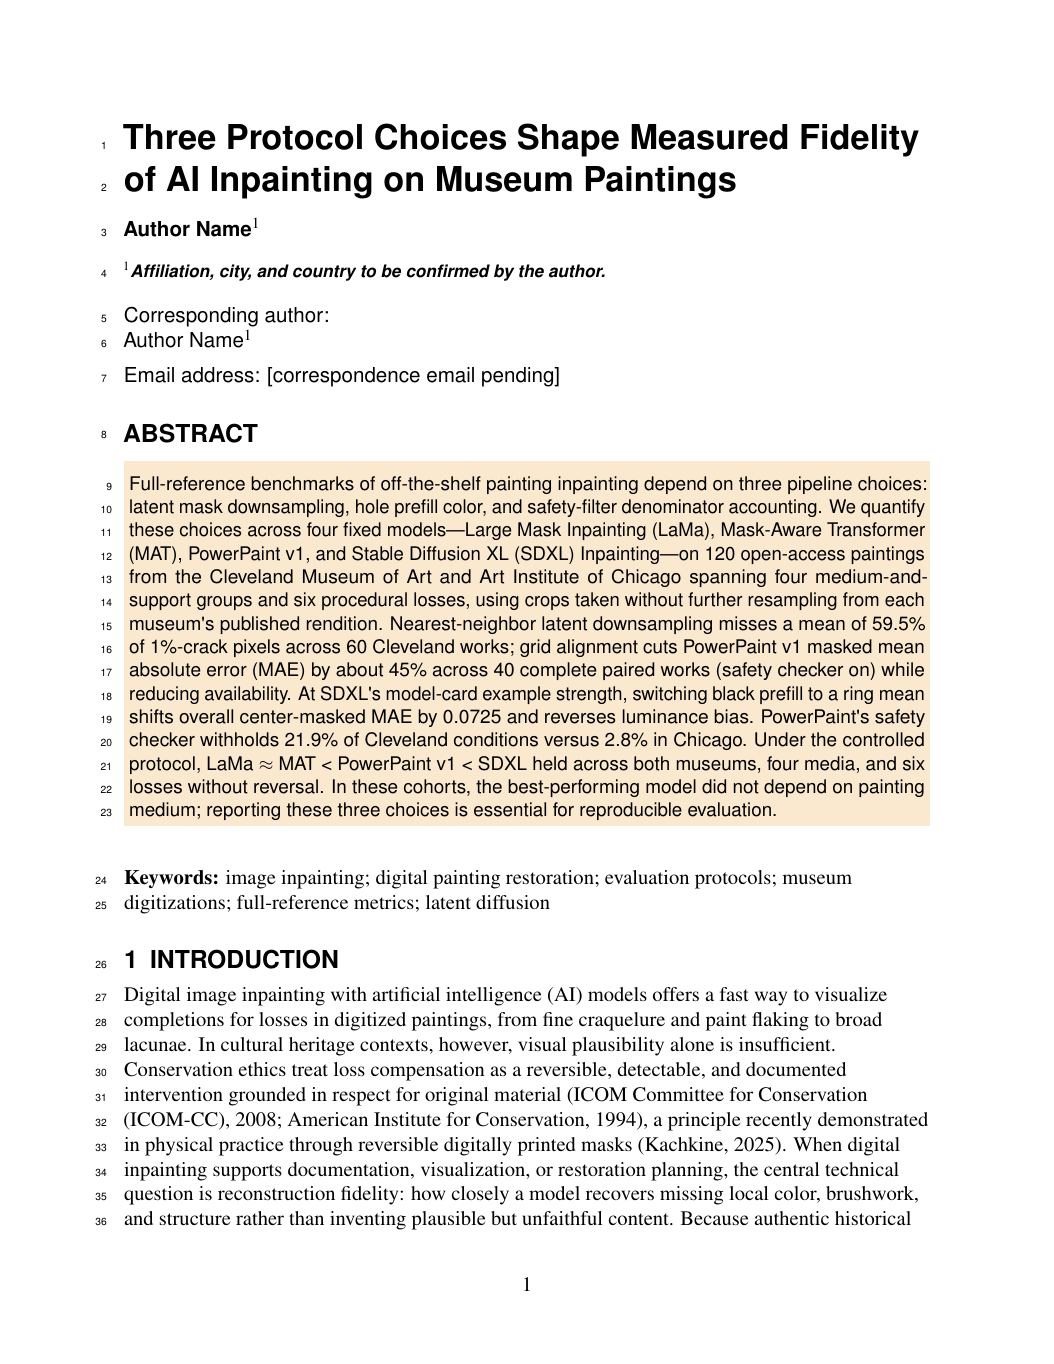
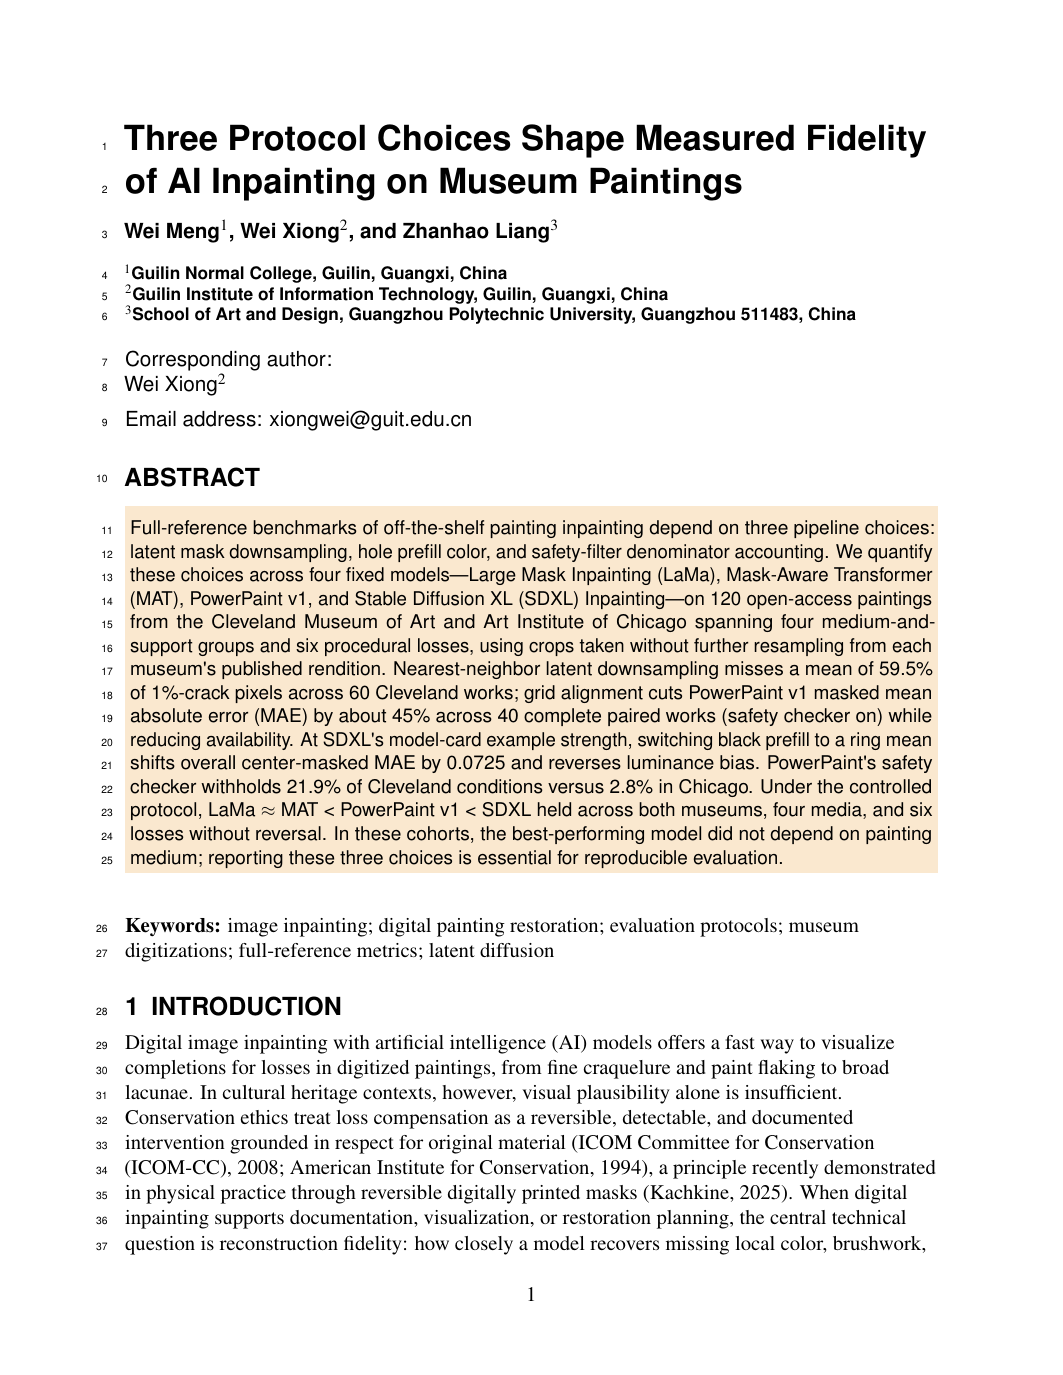
Add approved author metadata and the public reproduction repository

Changed region(s): [[0.0911, 0.0924, 0.8805, 0.9238], [0.759, 0.0924, 0.8805, 0.1232]]

diff --git a/docs/paper/peerj-cs/manuscript.tex b/docs/paper/peerj-cs/manuscript.tex
@@ -15,9 +15,13 @@
 \providecommand{\tightlist}{\setlength{\itemsep}{0pt}\setlength{\parskip}{0pt}}
 
 \title{Three Protocol Choices Shape Measured Fidelity of AI Inpainting on Museum Paintings}
-\author[1]{Author Name}
-\affil[1]{\textit{Affiliation, city, and country to be confirmed by the author.}}
-\corrauthor[1]{Author Name}{[correspondence email pending]}
+\author[1]{Wei Meng}
+\author[2]{Wei Xiong}
+\author[3]{Zhanhao Liang}
+\affil[1]{Guilin Normal College, Guilin, Guangxi, China}
+\affil[2]{Guilin Institute of Information Technology, Guilin, Guangxi, China}
+\affil[3]{School of Art and Design, Guangzhou Polytechnic University, Guangzhou 511483, China}
+\corrauthor[2]{Wei Xiong}{xiongwei@guit.edu.cn}
 
 \begin{abstract}
 Full-reference benchmarks of off-the-shelf painting inpainting depend on three pipeline choices: latent mask downsampling, hole prefill color, and safety-filter denominator accounting. We quantify these choices across four fixed models---Large Mask Inpainting (LaMa), Mask-Aware Transformer (MAT), PowerPaint v1, and Stable Diffusion XL (SDXL) Inpainting---on 120 open-access paintings from the Cleveland Museum of Art and Art Institute of Chicago spanning four medium-and-support groups and six procedural losses, using crops taken without further resampling from each museum\textquotesingle s published rendition. Nearest-neighbor latent downsampling misses a mean of 59.5\% of 1\%-crack pixels across 60 Cleveland works; grid alignment cuts PowerPaint v1 masked mean absolute error (MAE) by about 45\% across 40 complete paired works (safety checker on) while reducing availability. At SDXL\textquotesingle s model-card example strength, switching black prefill to a ring mean shifts overall center-masked MAE by 0.0725 and reverses luminance bias. PowerPaint\textquotesingle s safety checker withholds 21.9\% of Cleveland conditions versus 2.8\% in Chicago. Under the controlled protocol, LaMa \ensuremath{\approx} MAT \textless{} PowerPaint v1 \textless{} SDXL held across both museums, four media, and six losses without reversal. In these cohorts, the best-performing model did not depend on painting medium; reporting these three choices is essential for reproducible evaluation.
@@ -151,7 +155,7 @@ Within each museum, overall artwork-level scores weighted the six damage conditi
 
 \subsection{Use of Generative AI Tools}\label{use-of-generative-ai-tools}
 
-Claude (Anthropic) assisted with protocol review and figure generation. Gemini (Google) assisted with English drafting and editing. Codex (OpenAI) assisted with experimental and figure-generation code, literature verification, and statistical verification scripts \emph{(author to confirm specific tool version details and exact scope of personal review prior to submission)}. These uses supported implementation, auditability, and clear reporting of the evaluation. Figures~\ref{figure:1} and~\ref{figure:3} show saved inpainting outputs from the evaluated models under the fixed experimental protocol. All research questions, methodological decisions, pre-inference protocol approvals, and final scientific interpretations were decided by the author. No generative AI system was used to fabricate measurements or modify raw model outputs; all reported metrics, denominators, and confidence intervals were recomputed programmatically by deterministic scripts directly from frozen run outputs and verified against source manifests.
+Claude (Anthropic) assisted with protocol review and figure generation. Gemini (Google) assisted with English drafting and editing. Codex (OpenAI) assisted with experimental and figure-generation code, literature verification, and statistical verification scripts \emph{(author to confirm specific tool version details and exact scope of personal review prior to submission)}. These uses supported implementation, auditability, and clear reporting of the evaluation. Figures~\ref{figure:1} and~\ref{figure:3} show saved inpainting outputs from the evaluated models under the fixed experimental protocol. The research questions, methodological decisions, pre-inference protocol approvals, and final scientific interpretations were decided by the research team. No generative AI system was used to fabricate measurements or modify raw model outputs; all reported metrics, denominators, and confidence intervals were recomputed programmatically by deterministic scripts directly from frozen run outputs and verified against source manifests.
 
 \section{Results}\label{results}
 
@@ -272,7 +276,7 @@ Across 120 open-access paintings from two independent museums, three evaluation 
 
 \section*{Acknowledgments}
 
-During the preparation of this manuscript/study, the author used Claude (Anthropic), Gemini (Google), and Codex (OpenAI) \emph{(specific tool version details to be confirmed by the author)} for protocol review and figure generation, English drafting and editing, and experimental coding, figure generation, literature verification, and statistical verification, respectively. The author has reviewed and edited the output and takes full responsibility for the content of this publication. \emph{(Author to confirm tool version details, scope of personal review, and any additional acknowledgments prior to submission.)}
+During the preparation of this manuscript/study, the authors used Claude (Anthropic), Gemini (Google), and Codex (OpenAI) \emph{(specific tool version details to be confirmed by the author)} for protocol review and figure generation, English drafting and editing, and experimental coding, figure generation, literature verification, and statistical verification, respectively. The authors take responsibility for the content of this publication. \emph{(Author to confirm tool version details, scope of personal review, and any additional acknowledgments prior to submission.)}
 
 \section*{Additional Information and Declarations}
 
@@ -280,13 +284,13 @@ During the preparation of this manuscript/study, the author used Claude (Anthrop
 This research received no external funding. \emph{(To be confirmed by the author prior to submission.)}
 
 \subsection*{Competing Interests}
-The author declares no conflicts of interest. \emph{(To be confirmed by the author prior to submission.)}
+The authors declare no conflicts of interest. \emph{(To be confirmed by the author prior to submission.)}
 
 \subsection*{Author Contributions}
-Conceptualization, \emph{X.X.}; methodology, \emph{X.X.}; investigation, \emph{X.X.}; supervision, \emph{X.X.}; validation, \emph{X.X.}; writing---review and editing, \emph{X.X.}; project administration, \emph{X.X.}. \emph{(Author to replace initials placeholders, complete full author list and affiliations, and confirm final CRediT contributor roles prior to submission.)}
+All authors approved the manuscript and agree to its submission to \textit{PeerJ Computer Science}. \emph{(Individual contributor roles to be confirmed by the authors.)}
 
 \subsection*{Data Availability}
-Source painting images are publicly accessible open-access museum records: 60 CC0 works from the Cleveland Museum of Art Open Access Collection \citetext{\citeauthor{cma-openaccess}, n.d.} and 60 public-domain works obtained via the Art Institute of Chicago Open Access / IIIF Image API (1686-pixel-wide JPEG renditions) \citetext{\citeauthor{aic-openaccess}, n.d.}. All pre-specified experimental protocols, museum acquisition scripts (\nolinkurl{experiments/prepare_artworks.py}, \nolinkurl{experiments/prepare_aic_replication.py}), deterministic crop and procedural mask-generation scripts (\nolinkurl{experiments/patch_design.py}, \nolinkurl{experiments/latent_aligned.py}), model adapters, statistical analysis pipelines, figure-generation scripts, code-provenance utilities, regression tests, aggregated result tables with SHA-256 checksums, and Supplementary Materials (\nolinkurl{docs/paper/SUPPLEMENT.md}) are maintained in the public Git repository at \url{https://github.com/Casey-sketch-cyber/wei-xiong-ai3d-research} \emph{(repository URL subject to renaming prior to publication)}. No standalone open-source \texttt{LICENSE} file is currently committed in the repository \emph{(project license and publication release terms to be confirmed by the author prior to submission)}. To respect repository size limits and third-party distribution hygiene, raw museum downloads, per-artwork manifests, frozen per-condition \texttt{prepared.json} files (recording complete object IDs, sampling order, crop coordinates, and per-mask hashes), full JSON score summaries, contact sheets, and per-condition output PNGs are maintained in a separate experiment server archive rather than redistributed in Git \emph{(Before submission, provide the archival DOI for the reproducible code and machine-readable data, or identify the publishable supplemental files and any access arrangements approved by the journal.)}. The experiment server archive also contains run logs and per-execution provenance sidecars where recorded; historical runs executed outside a Git checkout may contain null Git commit fields, as documented in \nolinkurl{docs/RUN_PROVENANCE.md}. Third-party model weights remain governed by their respective upstream release artifacts and terms: LaMa (IOPaint TorchScript release \texttt{big-lama.pt} \citep{suvorov2021, lamaweights}), MAT (IOPaint Places-512 state dictionary \nolinkurl{Places_512_FullData_G.pth} \citep{li2022mat, matweights}), PowerPaint v1 (pinned author source revision \texttt{5b4c3d5} and weight revision \texttt{b4174b7} \citep{zhuang2023, powerpaintv1src, powerpaintv1weights}), and SDXL Inpainting 0.1 (pinned weight revision \texttt{115134f} under the CreativeML Open RAIL++-M License, with intended research use documented on the model card \citep{sdxlinpaint, sdxlinpaintweights}).
+Source painting images are publicly accessible open-access museum records: 60 CC0 works from the Cleveland Museum of Art Open Access Collection \citetext{\citeauthor{cma-openaccess}, n.d.} and 60 public-domain works obtained via the Art Institute of Chicago Open Access / IIIF Image API (1686-pixel-wide JPEG renditions) \citetext{\citeauthor{aic-openaccess}, n.d.}. The public reproduction repository includes the experimental protocols, museum acquisition and crop preparation, mask generation, model adapters, scoring, analysis, and figure code. \url{https://github.com/liangdagongjue-code/mengwei} \emph{(Project license and publication release terms to be confirmed by the authors.)} To respect repository size limits and third-party distribution hygiene, raw museum downloads, per-artwork manifests, frozen per-condition \texttt{prepared.json} files (recording complete object IDs, sampling order, crop coordinates, and per-mask hashes), full JSON score summaries, contact sheets, and per-condition output PNGs are maintained in a separate experiment server archive rather than redistributed in Git \emph{(Before submission, provide the archival DOI for the reproducible code and machine-readable data, or identify the publishable supplemental files and any access arrangements approved by the journal.)}. The experiment server archive also contains run logs and per-execution provenance sidecars where recorded; historical runs executed outside a Git checkout may contain null Git commit fields, as documented in \nolinkurl{docs/RUN_PROVENANCE.md}. Third-party model weights remain governed by their respective upstream release artifacts and terms: LaMa (IOPaint TorchScript release \texttt{big-lama.pt} \citep{suvorov2021, lamaweights}), MAT (IOPaint Places-512 state dictionary \nolinkurl{Places_512_FullData_G.pth} \citep{li2022mat, matweights}), PowerPaint v1 (pinned author source revision \texttt{5b4c3d5} and weight revision \texttt{b4174b7} \citep{zhuang2023, powerpaintv1src, powerpaintv1weights}), and SDXL Inpainting 0.1 (pinned weight revision \texttt{115134f} under the CreativeML Open RAIL++-M License, with intended research use documented on the model card \citep{sdxlinpaint, sdxlinpaintweights}).
 
 \subsection*{Supplemental Information}
 The supplemental PDF contains Supplementary Note S1: Museum Cohort Screening, Exclusions, and Mask Specifications; Supplementary Note S2: Pinned Model Checkpoints, Environments, and Pre-Screening; Supplementary Note S3: SDXL Dual-Path Initialization Scaling and Audits; and Table S1: 16-Work Native-Scale Pilot Latent-Alignment Summary.

diff --git a/docs/paper/peerj-cs/cover-letter.tex b/docs/paper/peerj-cs/cover-letter.tex
@@ -16,18 +16,22 @@
 
 \textbf{Manuscript.} Three Protocol Choices Shape Measured Fidelity of AI Inpainting on Museum Paintings
 
+\textbf{Authors.} Wei Meng, Wei Xiong, and Zhanhao Liang.
+
 Dear Editors,
 
 Please consider our manuscript for publication in \textit{PeerJ Computer Science}. We examine how three implementation and evaluation choices affect reported results for off-the-shelf image inpainting on digitized paintings: mask downsampling to the latent grid, hole prefilling when denoising begins from an encoded image, and the denominator used to account for outputs withheld by a safety checker.
 
 We compare four fixed models on 120 open-access paintings from the Cleveland Museum of Art and the Art Institute of Chicago, spanning four medium-and-support groups and six procedural damage conditions. These choices can materially change measured error and output availability. Across the two cohorts and all tested media and damage conditions, the controlled model ranking remained stable. The study contributes a reproducible benchmark and practical reporting guidance for researchers who evaluate image restoration systems on digitized cultural collections.
 
-\textbf{Author checks before submission.} Confirm the manuscript's publication and review status, disclose any related preprint or earlier version, confirm approval by all authors, and verify that reviewers can access the supporting data and code. Confirm the AI-use statement and other declarations in the manuscript.
+All authors approved the manuscript and agree to its submission to \textit{PeerJ Computer Science}.
+
+\textbf{Author checks before submission.} Confirm the manuscript's publication and review status, disclose any related preprint or earlier version, and verify that reviewers can access the supporting data and code. Confirm the AI-use statement and other declarations in the manuscript.
 
 Sincerely,
 
-\textit{[Corresponding author]}\\
-\textit{[Institution and department]}\\
-\textit{[Email address]}\\
+Wei Xiong, corresponding author\\
+Guilin Institute of Information Technology\\
+xiongwei@guit.edu.cn\\
 \textit{[Submission date]}
 \end{document}

diff --git a/docs/paper/peerj-cs/supplement.tex b/docs/paper/peerj-cs/supplement.tex
@@ -9,7 +9,7 @@
 \setlength{\emergencystretch}{2em}
 \renewcommand{\thetable}{S\arabic{table}}
 \title{\Large\bfseries Supplemental Information\\[.35em]\large\normalfont Three Protocol Choices Shape Measured Fidelity of AI Inpainting on Museum Paintings}
-\author{}
+\author{Wei Meng \and Wei Xiong \and Zhanhao Liang}
 \date{}
 \providecommand{\tightlist}{\setlength{\itemsep}{0pt}\setlength{\parskip}{0pt}}
 \begin{document}

diff --git a/docs/PROGRESS.md b/docs/PROGRESS.md
@@ -4,7 +4,7 @@
 
 ## 当前状态
 
-作者已将投稿期刊改为 ***PeerJ Computer Science***。已按官方初投清单重排正文、表源、独立图件、补充材料及投稿表单说明，待 Claude 审查。作者需确认署名、投稿声明和可供审稿的复现代码与数据归档。真实破损实验仍待供体出处映射和掩码授权。[投稿交接](paper/SUBMISSION_PEERJ_CS.md) · [LaTeX 复现说明](paper/peerj-cs/README.md)
+作者已将投稿期刊改为 ***PeerJ Computer Science***。已按官方初投清单重排正文、表源、独立图件、补充材料及投稿表单说明，待 Claude 审查。已填三位作者与通讯作者，已记录全体同意投稿并链接公开复现代码。投稿前仍待具体声明与评审数据归档。真实破损实验仍待供体出处映射和掩码授权。[投稿交接](paper/SUBMISSION_PEERJ_CS.md) · [LaTeX 复现说明](paper/peerj-cs/README.md)
 
 ## 待办
 
@@ -87,7 +87,7 @@
 - [x] **作者 · 定目标期刊**：MDPI *Applied Sciences*（2026-11-25）
 - [x] **Gemini · v5 正文与投稿信**：已完成（`6a34c78`），正文与既有证据用于 PeerJ 版排版。
 - [x] **Codex · PeerJ Computer Science 投稿模板**：已编译正文、补充材料与投稿表单说明，核对 59 行表数据、56 条作者—年份参考文献、6 张独立图与 7 份表源。已为 Claude 准备审查包。[排版与复现](paper/peerj-cs/README.md)
-- [ ] **作者 · PeerJ 投稿前**：通读排版稿，补署名、单位、基金和贡献，确认利益冲突、AI 声明、归档 DOI 或可发布补件与访问方式。待 Claude 审查后在 PeerJ 投稿系统提交。
+- [ ] **作者 · PeerJ 投稿前**：通读排版稿，确认基金和个人贡献、利益冲突、AI 声明、归档 DOI 或可发布补件与访问方式。待 Claude 审查后在 PeerJ 投稿系统提交。
 - [ ] FLUX.1 Fill 原版全 BF16 常驻超出 24 GiB 且下载受限。取得授权组件后另测低显存配置的实际推理峰值
 - [x] 按 findInnovation 模板起草[文献树 v2](literature-tree/literature-tree-v2.md)，核对通用补全、画作修复及自动评价的代表来源
 
@@ -100,6 +100,11 @@
 ---
 
 ## 工作记录
+
+### 2026-11-26 · Codex · 公开复现代码并填写 PeerJ 署名
+- 公开指定复现仓库的 51 个研究代码和说明文件，匿名克隆逐件核对，9 项轻量测试通过。[固定提交](https://github.com/liangdagongjue-code/mengwei/tree/c1b6998f764f77c70318db5dde602324b1c78c60)
+- 正文已加公开仓库链接，并在正文、补件和投稿说明登记三位作者，Wei Xiong 通讯。记录全体作者同意投稿。待确认资助、贡献、利益冲突、AI 版本和冻结数据归档。
[1 lines of base64/hex data omitted]
 
 ### 2026-11-25 · Codex · 格式转为 PeerJ Computer Science
 - 改用 PeerJ LaTeX 模板及初投规则，生成 29 页带行号正文、3 页 Supplemental Article S1、1 页投稿表单说明。保留 v5 的 193 词摘要和排序口径。

diff --git a/docs/paper/SUBMISSION_PEERJ_CS.md b/docs/paper/SUBMISSION_PEERJ_CS.md
@@ -13,8 +13,10 @@
 
 [作者须知](https://peerj.com/journals/computer-science/author-instructions/) · [初投清单](https://d2pdyyx74uypu5.cloudfront.net/docs/Pre-Submission-Checklist-Computer-Science.pdf) · [PeerJ LaTeX 模板](https://www.overleaf.com/latex/templates/latex-template-for-peerj-journal-submissions/ptdwfrqxqzbn)
 
+正文及补件已登记 Wei Meng、Wei Xiong 和 Zhanhao Liang，Wei Xiong 为通讯作者。全体作者已同意投稿。复现代码已独立公开并链接到正文。[复现仓库](https://github.com/liangdagongjue-code/mengwei)
+
 ## 投稿前由作者确认
 
-- 填写作者全名、单位、城市、国家、通讯邮箱及贡献，确认基金、利益冲突和稿件发表或在审状态。
+- 确认各作者的贡献、基金、利益冲突和稿件发表或在审状态。
 - 核实生成式 AI 工具名称、实际版本、用途和作者审阅范围，按投稿界面确认相应声明。[生成式 AI 政策](https://peerj.com/journals/computer-science/policies/#generative-ai)
 - 为复现代码与机器可读数据提供审稿和发表访问方式。使用代码仓库时按政策提供归档 DOI，或上传符合要求的可发布补充文件。服务器审查包供项目内部复核。许可、归档内容和访问方式由作者确认。[代码与数据可得性政策](https://peerj.com/journals/computer-science/policies/#data-materials-sharing)

diff --git a/docs/paper/peerj-cs/README.md b/docs/paper/peerj-cs/README.md
@@ -28,4 +28,4 @@ pdflatex -interaction=nonstopmode -halt-on-error cover-letter.tex
 | Fig5.png | `figure-6-powerpaint-coverage.pdf` |
 | Fig6.png | `figure-5-condition-mae.pdf` |
 
-图号随正文首次引用。独立 PNG 从对应矢量 PDF 按 3000 px 宽渲染。审查包放在服务器数据盘的 `paper/peerj-cs-submission/review-package/`，清单覆盖正文、独立补件、源 ZIP、六张 PNG 与七张表。
+图号随正文首次引用。独立 PNG 从对应矢量 PDF 按 3000 px 宽渲染。审查包放在服务器数据盘的 `paper/peerj-cs-submission/author-review-20261126/`，清单覆盖正文、独立补件、源 ZIP、六张 PNG 与七张表。独立复现代码已发布在 `c1b6998`。[复现仓库](https://github.com/liangdagongjue-code/mengwei/tree/c1b6998f764f77c70318db5dde602324b1c78c60)
